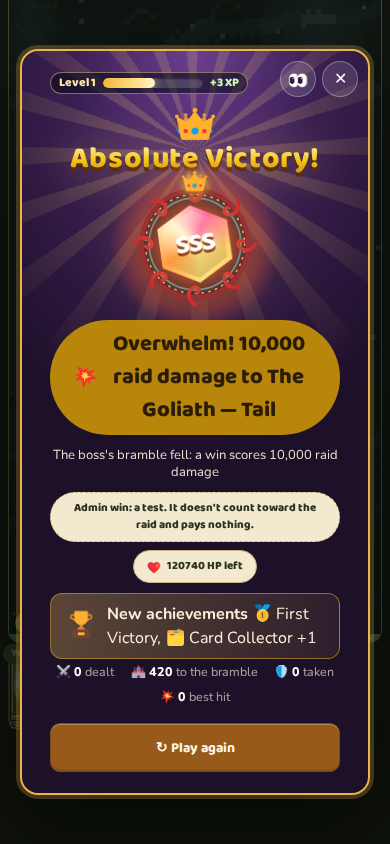
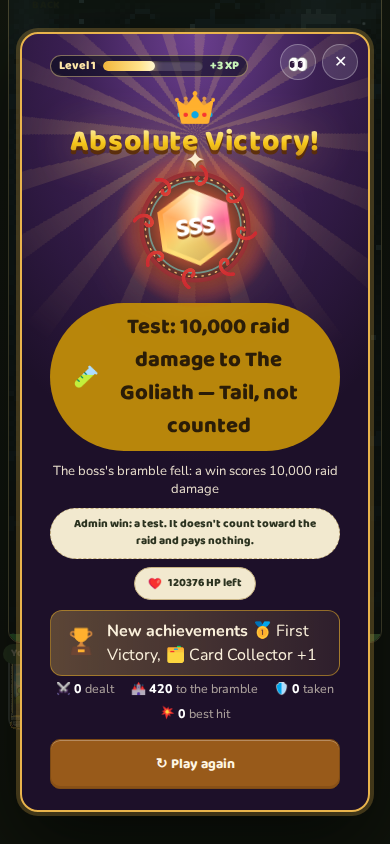
WIP NV: rank screens
Claude-Session: https://claude.ai/code/session_01R6XsJCmXvcJWh931mAnv4Q

diff --git a/docs/balance/NV-checkpoint.md b/docs/balance/NV-checkpoint.md
@@ -6,8 +6,9 @@ Scope: Home button / conquest top strip; pre-battle VS screen; raid-complete emb
 - [x] 3 Raid emblem: raidRankEmblemHTML (+ window.bwRaidRankEmblemHTML for fx-f claim screen)
 - [x] 4a root cause: Admin 👑 Win (adminAutoWin) on turn 1 → scored as overwhelm 10k + pushed. Fix: m.adminWin → raid not recorded (m.raidAdminTest). Also Play again on raid built a Quick Battle → raidReplayPart
 - [x] 4b raidDamageCalcHTML breakdown, nv-full-reward-from, bramble span in stats, running stat tally (log cap 200 undercounted)
-- [ ] tests (tests/nv-2026-10-19.js), update mobile-nav + raid-rv2 tests
-- [ ] screenshots review
-- [ ] keyify/export, CHANGELOG, lang translations
+- [x] tests (tests/nv-2026-10-19.js 121/121), mobile-nav + raid-rv2 updated and passing; i18n-templates + game-texts pass
+- [x] screenshots in docs/screens/nv/ reviewed
+- [x] keyify/export, CHANGELOG, lang translations (12 packs)
+- [ ] merge main, rebuild, final commit
 ## Notes
 - scratch scripts: /tmp/claude-0/-home-claude/37fc5715-ea38-5d46-be56-06a8c754a559/scratchpad/nv/ (shots.js, spec-nv.js)
